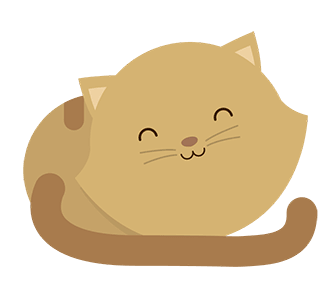
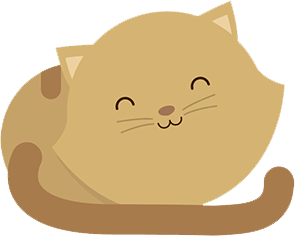
subiendo cambios en html tamaño div img cat

diff --git a/css/main.css b/css/main.css
@@ -5,50 +5,52 @@
 
 .container{
   display: flex;
-  justify-content: center;
+  flex-direction: column;
+  align-items: center;
+  justify-content: flex-end;
+  width: auto;
   height: 100vh;
 }
 
-.bg-img, .img-cat{
+.bg-img{
+  background-image: url("../assets/img/landscape.jpg");
+  background-size: 100% 100%;
   background-size: cover;
   background-repeat: no-repeat;
 }
 
 .img-cat{
-  display: flex;
-  width: 400px;
-  height: auto;
+  background-image: url("../assets/img/kitten-medium.png");
   background-size: 100% auto;
+  background-repeat: no-repeat;
+  background-position: bottom;
+  width: 40%;
+  height: 100%;
 }
 
-@media (max-width: 464px){
-  .bg-img{
-    background-image: url("../assets/img/maxresdefault.jpg");
-  }
-
-  .img-cat{
-    background-image: url("../assets/img/kitten-small.png");
-  }
-}
-
-@media (min-width: 465px){
+@media (max-width: 650px){
   .bg-img{
     background-image: url("../assets/img/dawn.png");
+    background-size: auto 100vh;
   }
 
   .img-cat{
     background-image: url("../assets/img/kitten-large.png");
-    width: 700px;
-    height: 300px;
+    background-size: 100% auto;
+    width: 100%;
   }
 }
 
-@media (min-width: 650px){
+@media (max-width: 465px){
   .bg-img{
-    background-image: url("../assets/img/landscape.jpg");
+    background-image: url("../assets/img/maxresdefault.jpg");
+    background-size: auto 100vh;
+    background-repeat: no-repeat;
   }
 
   .img-cat{
-    background-image: url("../assets/img/kitten-medium.png");
+    background-image: url("../assets/img/kitten-small.png");
+    background-size: 100% auto;
+    width: 90%;
   }
 }
